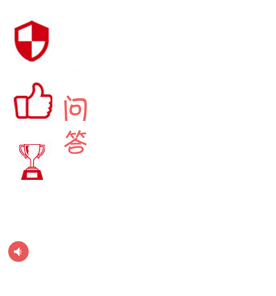
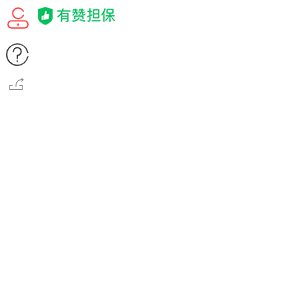
x

diff --git a/public/css/style_m.css b/public/css/style_m.css
@@ -27,10 +27,15 @@ body{
   margin: 0 auto;
   background-size: 3000px;
   max-width: 640px;
-  padding-bottom: 70px;
+  padding-bottom: 40px;
   color: #323233;
 }
-
+body .swiper-slide, body .swiper-wrapper{
+  height: auto;
+}
+.swiper-pagination-bullet.swiper-pagination-bullet-active{
+  background: #fff;
+}
 .top-wrap h1{
   font-size: 16px;
   font-weight: normal;
@@ -43,9 +48,10 @@ body{
 .banner{
   /* margin: 0 10px; */
   background: rgb(177, 44, 126);
+  max-height: 213px;
+  overflow: hidden;
 }
 .banner .swiper-container{
-  height: 150px;
   overflow: hidden;
 }
 .module-unit{
@@ -109,24 +115,24 @@ body{
   right: 0;
   top: 0;
   display: block;
-  background: #f7f8fa;
   padding: 4px 6px 4px 10px;
   margin-left: 2px;
   font-size: 12px;
   color: #646566;
   line-height: normal;
-  border-top-left-radius: 10px;
-  border-bottom-left-radius: 10px;
+  border-top-left-radius: 12px;
+  border-bottom-left-radius: 12px;
+  background: #f7f8fa url(../img/icon.png) no-repeat left center;
+  background-position: 0px -72px;
+  padding-left: 30px;
 }
 .m-base-info .good-guarantee-bar{
   font-size: 12px;
   color: #646566;
-}
-.m-base-info .good-guarantee-bar img{
-  height: 18px;
-  vertical-align: middle;
-  width: auto;
-  margin-right: 12px;
+  background: url(../img/icon.png) no-repeat left center;
+  background-position: -38px -7px;
+  height: 20px;
+  padding-left: 90px;
 }
 .m-bsae-server{
   padding-left: 16px;
@@ -137,9 +143,6 @@ body{
 .m-bsae-server .server{
   color: #969799;
   margin-right: 12px;
-}
-.tab-wrap .swiper-wrapper{
-  height: auto;
 }
 .tabs{
   background: #fff;
@@ -184,6 +187,9 @@ body{
   line-height: 26px;
   font-size: 14px;
   color: #333;
+}
+.tab-wrap .goods-detail img{
+  margin-top: 10px;
 }
 .tab-wrap .goods-detail .promise{
   line-height: 20px;
@@ -246,23 +252,55 @@ body{
 }
 .order{
   margin-top: 10px;
-  background: #fff;
-  min-height: 40px;
-  line-height: 30px;
-  box-shadow: 0 0 5px rgba(0, 0, 0, 0.16);
   position: fixed;
   z-index: 10;
   bottom: 0;
   left: 0;
   width: 100%;
 }
-.order span{
+.order .order-cont{
+  width: 100%;
+  max-width: 640px;
+  margin: 0 auto;
+  background: #fff;
+  position: relative;
+  min-height: 40px;
+  line-height: 30px;
+  box-shadow: 0 0 5px rgba(0, 0, 0, 0.16);
+}
+.order .order-cont a{
   font-size: 12px;
   display: inline-block;
-  margin-left: 10px;
   color: #7d7e80;
+  text-align: center;
+  line-height: 40px;
+  position: relative;
+  /* margin-left: 20px; */
+  padding-left: 20px;
 }
-.order a{
+/* .order .order-cont a::before{
+  content: '';
+  display: block;
+  width: 16px;
+  height: 16px;
+  background: url(../img/icon.png) no-repeat left center;
+  background-position: -4px -4px;
+  background-size: 200px;
+  position: absolute;
+  left: 0;
+  top: 12px;
+}
+.order .order-cont a.question::before{
+  background-position: -4px -28px;
+} */
+.order .order-cont span{
+  font-size: 12px;
+  position: absolute;
+  left: 77px;
+  top: 4px;
+  color: #f95e5e;
+}
+.order button{
   display: block;
   position: absolute;
   right: 10px;
@@ -274,6 +312,11 @@ body{
   background: #f44;
   color: #fff;
   border-radius: 20px;
+  border: 0;
+  outline: none;
+}
+.order button:active{
+  background: rgb(192, 50, 50);
 }
 
 
